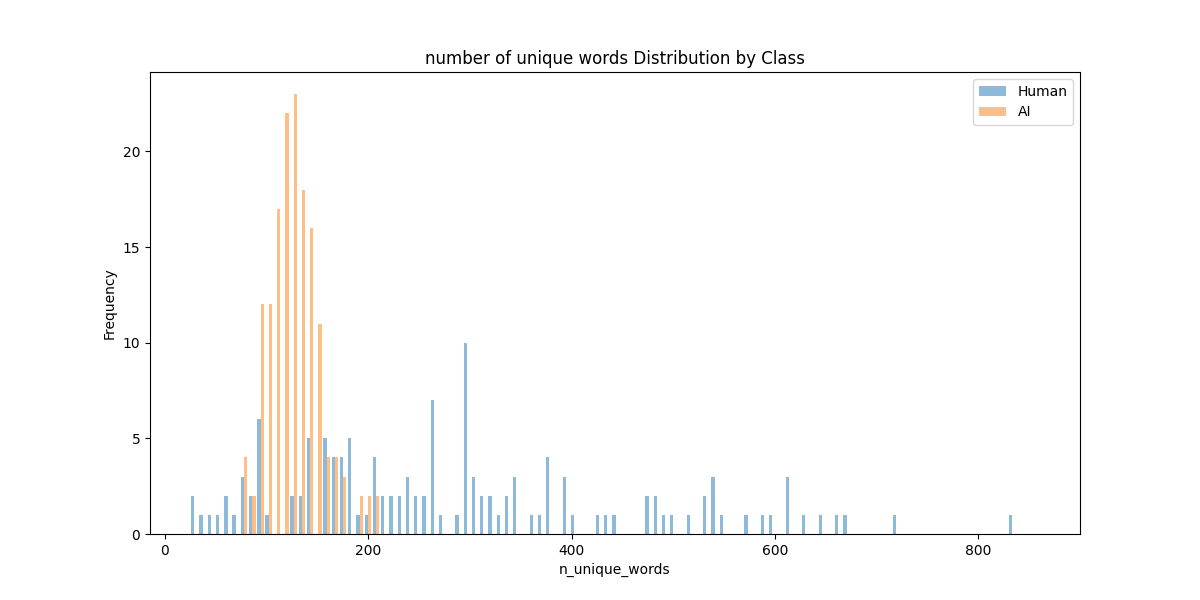
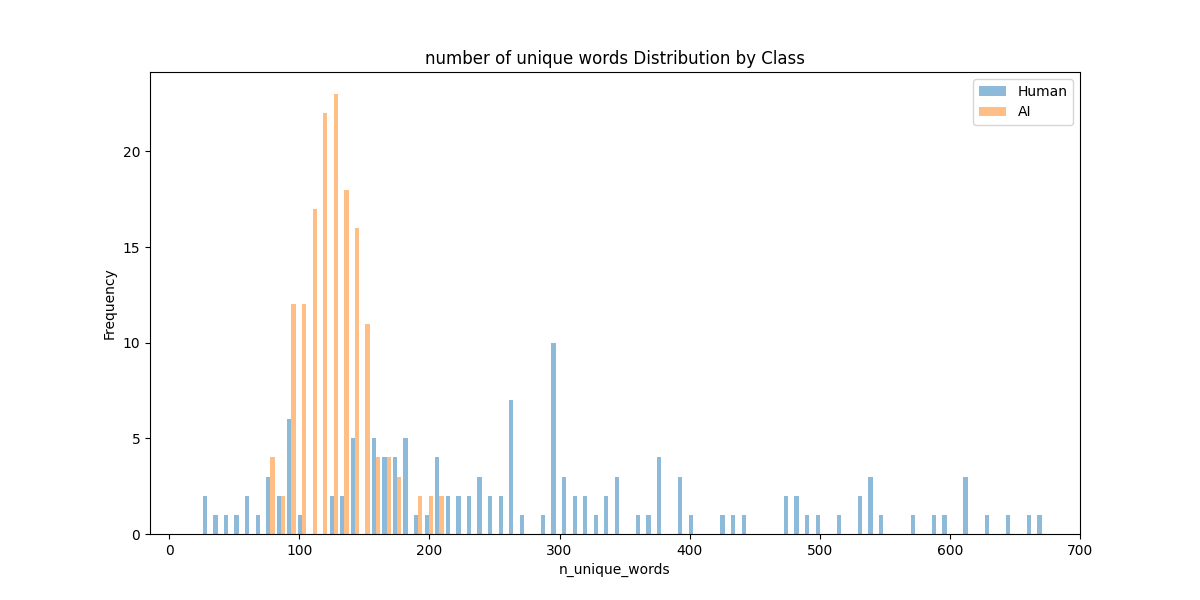
fixing the analisys images

Changed region(s): [[0.1542, 0.18, 0.8633, 0.93], [0.8942, 0.9, 0.925, 0.93], [0.1233, 0.9, 0.1542, 0.93]]

diff --git a/create_unique_words_all.py b/create_unique_words_all.py
@@ -1,0 +1,78 @@
+
+from read_datasets import read_data
+import numpy as np # linear algebra
+import pandas as pd # data processing, CSV file I/O (e.g. pd.read_csv)
+import matplotlib.pyplot as plt
+import nltk
+from nltk.tokenize import word_tokenize , sent_tokenize
+from nltk.corpus import stopwords
+from wordcloud import WordCloud
+from tqdm import tqdm
+from nltk import ngrams
+from string import punctuation
+# from nltk.sentiment.vader import SentimentIntensityAnalyzer
+# from textblob import TextBlob
+import gc
+# import os
+
+nltk.download('punkt')
+nltk.download('vader_lexicon')
+# data_jasons = {"reddit": "example_reddit_data_set.json", "wikipedia": "wikipedia_data_set.json", "news": "wikipedia_data_set.json"}
+# data_jasons = {"reddit": "reddit/example_reddit_data_set.json"}
+data_jasons = {"newspaper": "newspaper/newspapers_data.json","wikipedia": "wikipedia/wikipedia_summaries.json", "reddit": "reddit/reddit_data_set.json"}
+
+
+def data_to_pd(dataset):
+    # Separate the data and label from the dataset
+    data = [item[0] for item in dataset]
+    label = [item[1] for item in dataset]
+
+    # Create a dictionary with the desired column names
+    data_dict = {"data": data, "label": label}
+
+    # Convert the dictionary to a pandas DataFrame
+    df = pd.DataFrame(data_dict)
+    return df
+
+plt.figure(figsize=(16, 6))
+plt.suptitle('Number of unique words distribution by class')
+for i, key in enumerate(list(data_jasons.keys())):
+    dataset = {}
+    dataset[key] = data_jasons[key]
+    dataset = read_data(dataset)
+
+
+    df = data_to_pd(dataset)
+
+
+    tqdm.pandas(desc="Tokenizing Text")
+    df['tokens'] = df['data'].progress_apply(lambda x: word_tokenize(str(x)))
+    df['characters'] = df['data'].progress_apply(lambda x: len(str(x)))
+    df['words'] = df['tokens'].progress_apply(lambda tokens: len(tokens))
+    df['unique_words'] = df['tokens'].progress_apply(lambda x: len(set(x)))
+    df['sentences'] = df['data'].progress_apply(lambda x: len(sent_tokenize(str(x))))
+    # Display the first few rows of the DataFrame
+
+
+    plt.subplot(1, 3, i+1)
+    plt.hist([df[df['label'] == 0]['unique_words'], df[df['label'] == 1]['unique_words']], bins=100, alpha=0.5, label=['Human', 'AI'])
+    plt.title(f'{key.capitalize()}')
+    plt.xlabel('Number of unique words')
+    plt.ylabel('Frequency')
+    if key == 'newspaper':
+        x_lim = 700
+        y_lim = 24
+    if key == 'reddit':
+        x_lim = 100
+        y_lim = 600
+    if key == 'wikipedia':
+        x_lim = 300
+        y_lim = 400
+    plt.xlim(right=x_lim)
+    plt.ylim(top=y_lim)
+    plt.xticks(range(0, x_lim+1, int(x_lim/10)))
+    plt.yticks(range(0, y_lim+1, int(y_lim/10)))
+    plt.legend()
+    plt.grid(True)
+plt.savefig(f'analysis/unique_words.png')
+

diff --git a/analyze_dataset.py b/analyze_dataset.py
@@ -52,7 +52,13 @@ def analyize_data(dataset, path, show=False):
     plt.title('number of unique words Distribution by Class')
     plt.xlabel('n_unique_words')
     plt.ylabel('Frequency')
-    plt.xlim(right=900)
+    if path == 'analysis/newspaper':
+        x_lim = 700
+    if path == 'analysis/reddit':
+        x_lim = 100
+    if path == 'analysis/wikipedia':
+        x_lim = 300
+    plt.xlim(right=x_lim)
     plt.legend()
     plt.savefig(f'{path}_unique_words.png')
     if show:
@@ -63,7 +69,13 @@ def analyize_data(dataset, path, show=False):
     plt.title('number of characters Distribution by Class')
     plt.xlabel('n_characters')
     plt.ylabel('Frequency')
-    plt.xlim(right=10000)
+    if path == 'analysis/newspaper':
+        x_lim = 5000
+    if path == 'analysis/reddit':
+        x_lim = 1000
+    if path == 'analysis/wikipedia':
+        x_lim = 2000
+    plt.xlim(right=x_lim)
     plt.legend()
     plt.savefig(f'{path}_characters.png')
     if show:
@@ -86,7 +98,13 @@ def analyize_data(dataset, path, show=False):
     plt.title('Number of Sentences Distribution by Class')
     plt.xlabel('n_sentences')
     plt.ylabel('Frequency')
-    plt.xlim(right=80)
+    if path == 'analysis/newspaper':
+        x_lim = 80
+    if path == 'analysis/reddit':
+        x_lim = 10
+    if path == 'analysis/wikipedia':
+        x_lim = 20
+    plt.xlim(right=x_lim)
     plt.legend()
     plt.savefig(f'{path}_sentences.png')
     if show:
